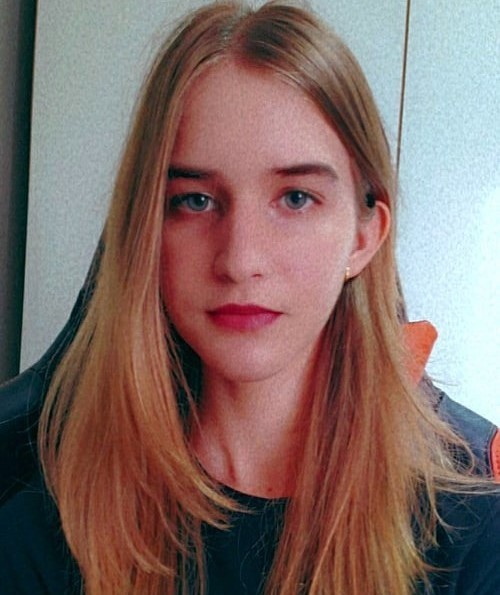
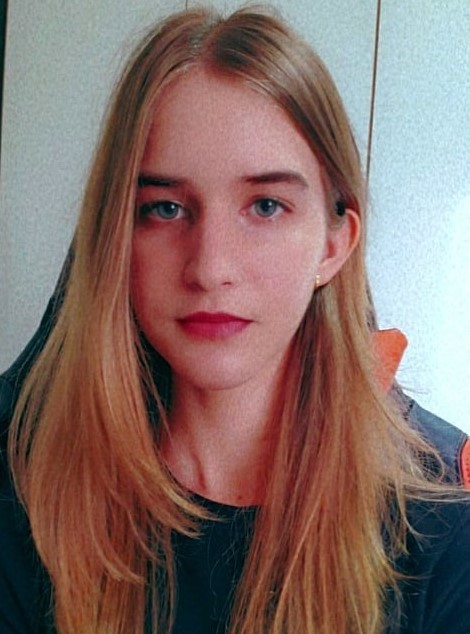
ajustes

diff --git a/html/sobre.html b/html/sobre.html
@@ -59,14 +59,14 @@
             </div>
 
             <!-- Imagens -->
-            <div class="pt-5 pb-5">
-                <img src="" class="rounded-circle" style="background: #E56399; width: 120px; height: 120px; margin-right: 5%; margin-left: 5%;">
-                <img src="" class="rounded-circle" style="background: #E56399; width: 120px; height: 120px; margin-right: 5%;">
-                <img src="" class="rounded-circle" style="background: #E56399; width: 120px; height: 120px; margin-right: 5%;">
-                <img src="../img/nossas-fts/ana.jpg" class="rounded-circle" style="background: #E56399; width: 120px; height: 120px; margin-right: 5%;">
-                <img src="" class="rounded-circle" style="background: #E56399; width: 120px; height: 120px; margin-right: 5%;">
-                <img src="" class="rounded-circle" style="background: #E56399; width: 120px; height: 120px; margin-right: 5%;">
-                <img src="" class="rounded-circle" style="background: #E56399; width: 120px; height: 120px; margin-right: 5%;">
+            <div class="pt-5 pb-5" style="text-align: center;">
+                <img src="" class="rounded-circle" style="background: #E56399; width: 130px; height: 130px; margin-right: 3%;">
+                <img src="" class="rounded-circle" style="background: #E56399; width: 130px; height: 130px; margin-right: 3%;">
+                <img src="" class="rounded-circle" style="background: #E56399; width: 130px; height: 130px; margin-right: 3%;">
+                <img src="../img/nossas-fts/ana.jpg" class="rounded-circle" style="background: #E56399; width: 150px; height: 150px; margin-right: 3%;">
+                <img src="" class="rounded-circle" style="background: #E56399; width: 130px; height: 130px; margin-right: 3%;">
+                <img src="" class="rounded-circle" style="background: #E56399; width: 130px; height: 130px; margin-right: 3%;">
+                <img src="" class="rounded-circle" style="background: #E56399; width: 130px; height: 130px; margin-right: 3%;">
             </div>
         </div><!-- Fim do orpo da página -->
 
